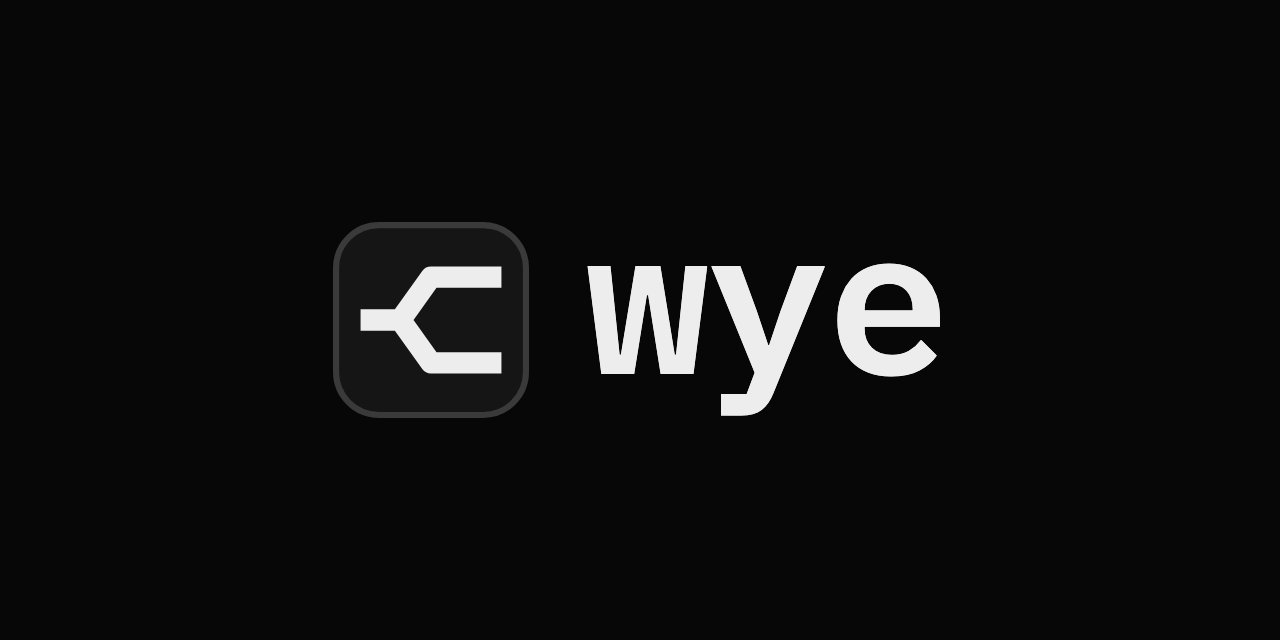
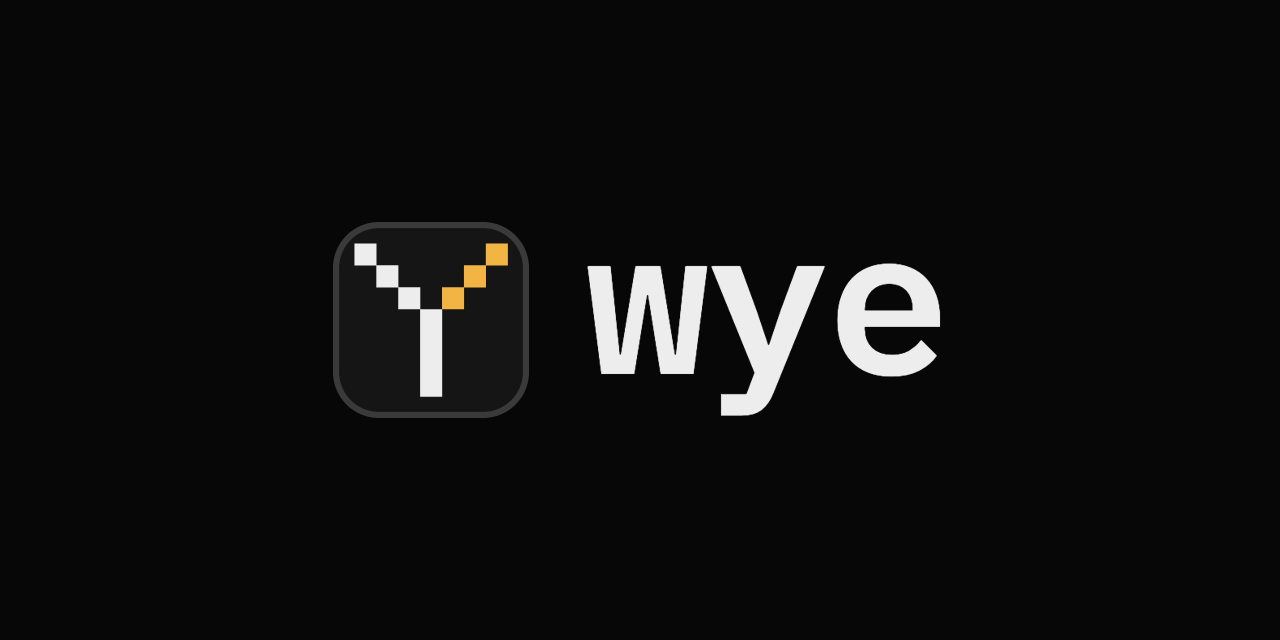
feat(site): a pixel Y as the mark
The mark was the v3 fork, one line forking in two. It is now "Dither",
pick 15 of the second icon canvas: a Y in whole pixels on the tile,
its right arm in the accent, the way a terminal draws a letter. One
drawing serves everywhere: the SVG favicon, the 32 px PNG every
browser takes (last icon link) and the 180 px one for iOS, both
screenshots of the SVG; the header mark, inline with the page's
colours; the share image, redrawn from share/card.html; and README's
header icon. The files take a new name, icon-dither, since browsers
keep an icon long after it changes, and the ?v= the fork needed goes.

Checked at 16, 32 and 48 px on dark and light tabs at 1x and 2x: the
Y reads at every size and is crisp on 2x screens. The page weighs
33 KiB of 150.

Changed region(s): [[0.25, 0.375, 0.4062, 0.625]]

diff --git a/site/pages/index.html b/site/pages/index.html
@@ -14,7 +14,7 @@
 <meta property="og:image" content="{{homepage}}assets/share.png">
 <meta property="og:image:width" content="1280">
 <meta property="og:image:height" content="640">
-<meta property="og:image:alt" content="Wye's mark, a line forking in two, beside its name">
+<meta property="og:image:alt" content="Wye's mark, a pixel Y with one amber arm, beside its name">
 <meta name="twitter:card" content="summary_large_image">
 <meta name="color-scheme" content="dark">
 <meta name="theme-color" content="#070707">
@@ -22,16 +22,16 @@
 <link rel="preload" href="assets/fonts/wye-mono-regular.woff2" as="font" type="font/woff2" crossorigin>
 <link rel="preload" href="assets/fonts/wye-mono-semibold.woff2" as="font" type="font/woff2" crossorigin>
 <style>{{stylesheet}}</style>
-<link rel="icon" href="assets/icon-fork.svg" type="image/svg+xml">
-<link rel="icon" href="assets/icon-fork-32.png?v=2" sizes="32x32" type="image/png">
-<link rel="apple-touch-icon" href="assets/icon-fork-180.png?v=2">
+<link rel="icon" href="assets/icon-dither.svg" type="image/svg+xml">
+<link rel="icon" href="assets/icon-dither-32.png" sizes="32x32" type="image/png">
+<link rel="apple-touch-icon" href="assets/icon-dither-180.png">
 <script src="assets/site.js" defer></script>
 </head>
 <body>
 <a class="skip" href="#content">Skip to content</a>
 <header class="wrap bar">
   <a class="mark" href="./">
-    <svg viewBox="0 0 32 32" aria-hidden="true"><rect class="tile" x="0.5" y="0.5" width="31" height="31" rx="7"/><path class="fork" d="M4.5 16 H11 L16 9 H27.5 M11 16 L16 23 H27.5"/></svg>
+    <svg viewBox="0 0 64 64" aria-hidden="true"><rect class="tile" x="1" y="1" width="62" height="62" rx="14"/><path class="ink" d="M7 7h7.2v7.2H7zM14.15 14.15h7.2v7.2h-7.2zM21.3 21.3h7.2v7.2h-7.2zM28.45 28.45h7.2v28.65h-7.2z"/><path class="accent" d="M49.9 7h7.2v7.2h-7.2zM42.75 14.15h7.2v7.2h-7.2zM35.6 21.3h7.2v7.2h-7.2z"/></svg>
     <span>wye</span> <span class="version">{{version}}</span>
   </a>
   <nav aria-label="Project">

diff --git a/site/pages/site.css b/site/pages/site.css
@@ -171,13 +171,14 @@ code { font-family: var(--mono); font-size: 0.94em; color: var(--ink); }
   font-weight: 600;
   text-decoration: none;
 }
-/* The mark: one line forking in two, on a tile. assets/icon-fork.svg, the
-   favicon, is the same drawing; browsers keep a favicon long after it
-   changes, so a new mark takes a new file name. */
+/* The mark: a pixel Y, its right arm in the accent, on a tile.
+   assets/icon-dither.svg, the favicon, is the same drawing; browsers keep
+   a favicon long after it changes, so a new mark takes a new file name. */
 .mark svg { width: 1.75rem; height: 1.75rem; align-self: center; }
 .mark .version { color: var(--graphite); font-size: var(--caption); font-weight: 400; }
-.mark .tile { fill: var(--ground); stroke: var(--edge); }
-.mark .fork { fill: none; stroke: var(--ink); stroke-width: 3.5; stroke-linejoin: round; }
+.mark .tile { fill: var(--ground); stroke: var(--edge); stroke-width: 2; }
+.mark .ink { fill: var(--ink); }
+.mark .accent { fill: var(--accent); }
 :is(.bar, .foot) nav { display: flex; flex-wrap: wrap; gap: 0.25rem 1.5rem; font-family: var(--mono); }
 :is(.bar, .foot) nav a { color: var(--graphite); text-decoration: none; }
 :is(.bar, .foot) nav a:hover { color: var(--ink); text-decoration: underline; }

diff --git a/site/share/card.html b/site/share/card.html
@@ -23,8 +23,9 @@ body {
   background: #070707;
 }
 svg { width: 196px; height: 196px; flex: none; }
-.tile { fill: #151515; stroke: #3a3a3a; }
-.fork { fill: none; stroke: #ededed; stroke-width: 3.5; stroke-linejoin: round; }
+.tile { fill: #151515; stroke: #3a3a3a; stroke-width: 2; }
+.ink { fill: #ededed; }
+.accent { fill: #f2b544; }
 span {
   color: #ededed;
   font: 600 208px/1 "Wye Mono", monospace;
@@ -36,7 +37,7 @@ span {
 </style>
 </head>
 <body>
-<svg viewBox="0 0 32 32" aria-hidden="true"><rect class="tile" x="0.5" y="0.5" width="31" height="31" rx="7"/><path class="fork" d="M4.5 16 H11 L16 9 H27.5 M11 16 L16 23 H27.5"/></svg>
+<svg viewBox="0 0 64 64" aria-hidden="true"><rect class="tile" x="1" y="1" width="62" height="62" rx="14"/><path class="ink" d="M7 7h7.2v7.2H7zM14.15 14.15h7.2v7.2h-7.2zM21.3 21.3h7.2v7.2h-7.2zM28.45 28.45h7.2v28.65h-7.2z"/><path class="accent" d="M49.9 7h7.2v7.2h-7.2zM42.75 14.15h7.2v7.2h-7.2zM35.6 21.3h7.2v7.2h-7.2z"/></svg>
 <span>wye</span>
 </body>
 </html>

diff --git a/site/README.md b/site/README.md
@@ -3,7 +3,7 @@
 The Wye website: a landing page built from the repository's own files and published to GitHub Pages.
 
 - `pages/`: HTML pages whose directives pull from the repository (`src/render/directive.rs` lists them), and `site.css`, which the build writes into each page, minified.
-- `assets/`: files copied into `out/`, scripts without their comments (`src/main.rs`): `site.js` (the copy buttons, and the hero's start), `strings.js` (the worker that draws the hero's strings), the icon (`icon-fork.svg`, and PNG copies, each a Chromium screenshot of the SVG: 32 px on transparency, the favicon every browser uses, as browsers take the last icon link they can draw and Safari 26 and later did not show the SVG; and 180 px on the tile's colour for iOS; a `?v=` on their links makes Safari, which keeps an icon long after it changes, fetch them again), and the fonts: Wye Text (iA Writer Quattro S) and Wye Mono (IBM Plex Mono), each subset and renamed, under the SIL Open Font License in `assets/fonts/`. The subset keeps printable ASCII and `U+A0 B5 B7 D7 AB BB B0 B1 A9 2013 2014 2018 2019 201C 201D 2022 2026 2192 2248 2264 2265`, no hinting, and only the `kern` feature: `pyftsubset FONT.woff2 --flavor=woff2 --unicodes=... --layout-features=kern --no-hinting --name-IDs='*'`. A character outside it falls back to the next font for that character only.
+- `assets/`: files copied into `out/`, scripts without their comments (`src/main.rs`): `site.js` (the copy buttons, and the hero's start), `strings.js` (the worker that draws the hero's strings), the mark (`icon-dither.svg`, a pixel Y with one amber arm, and PNG copies, each a Chromium screenshot of the SVG: 32 px on transparency, the favicon every browser uses, as browsers take the last icon link they can draw and Safari 26 and later did not show the SVG; and 180 px on the tile's colour for iOS; a new mark takes a new file name, since browsers keep an icon long after it changes), and the fonts: Wye Text (iA Writer Quattro S) and Wye Mono (IBM Plex Mono), each subset and renamed, under the SIL Open Font License in `assets/fonts/`. The subset keeps printable ASCII and `U+A0 B5 B7 D7 AB BB B0 B1 A9 2013 2014 2018 2019 201C 201D 2022 2026 2192 2248 2264 2265`, no hinting, and only the `kern` feature: `pyftsubset FONT.woff2 --flavor=woff2 --unicodes=... --layout-features=kern --no-hinting --name-IDs='*'`. A character outside it falls back to the next font for that character only.
 - `share/card.html`: the source of `assets/share.png`, the image a link preview shows, and the repository's social preview on GitHub (uploaded in its settings). To redraw it, serve `site/` (`python3 -m http.server --directory site`) and screenshot `share/card.html` with any Chromium: `--headless --screenshot --window-size=1280,640`.
 - `src/`: the generator: renders `pages/` into `out/`, copies `assets/`, and checks the result.
 - `check.sh`: `cargo fmt --check`, clippy, tests, the build, and the page budget.

diff --git a/README.md b/README.md
@@ -1,4 +1,4 @@
-# <img src="site/assets/icon-fork.svg" alt="" width="36" align="absmiddle"> Wye
+# <img src="site/assets/icon-dither.svg" alt="" width="36" align="absmiddle"> Wye
 
 [![ci](https://img.shields.io/github/actions/workflow/status/askrid/wye/ci.yml?branch=main&style=flat-square&label=ci&labelColor=151515)](https://github.com/askrid/wye/actions/workflows/ci.yml) [![release](https://img.shields.io/github/v/release/askrid/wye?include_prereleases&style=flat-square&label=release&labelColor=151515&color=f2b544)](https://github.com/askrid/wye/releases) [![license](https://img.shields.io/github/license/askrid/wye?style=flat-square&labelColor=151515&color=3a3a3a)](LICENSE)
 
